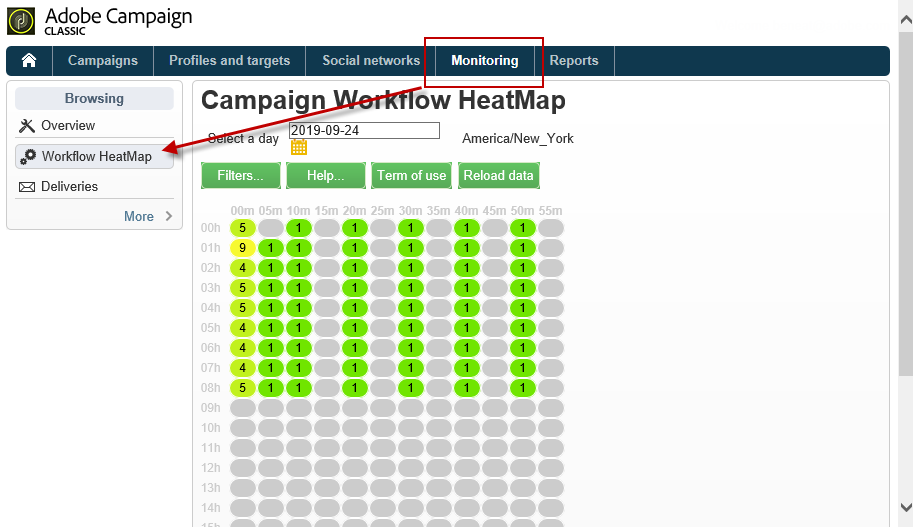
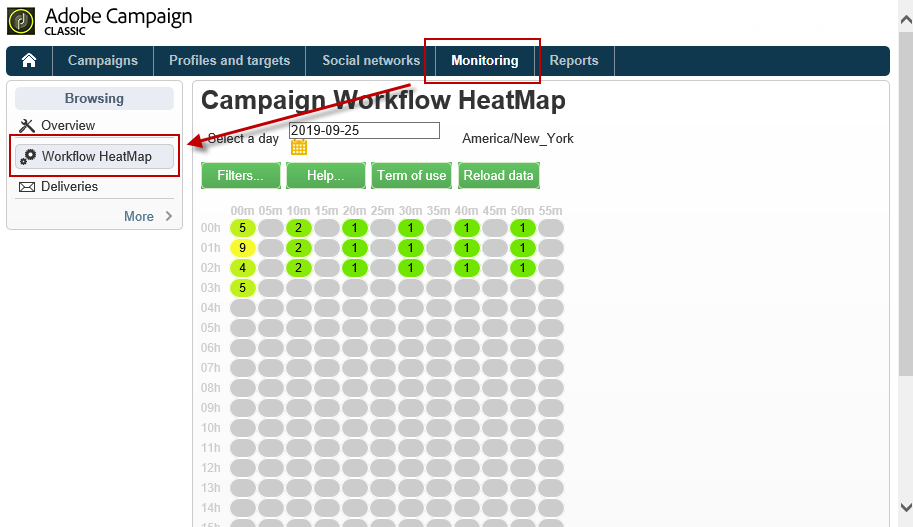
Update monitoring UI

diff --git a/help/workflow/using/heatmap.md b/help/workflow/using/heatmap.md
@@ -64,7 +64,7 @@ This choice is not final, you can always change it by clicking the **[!UICONTROL
 >
 >Only users with administration rights can access the Campaign Workflow HeatMap.
 
-1. Go to **[!UICONTROL Monitoring]** and click the **[!UICONTROL Workflows]** link to display the **[!UICONTROL Campaign Workflow HeatMap]** page.
+1. Go to **[!UICONTROL Monitoring]** and click the **[!UICONTROL Workflow HeatMap** link to display the **[!UICONTROL Campaign Workflow HeatMap]** page.
 
    ![](assets/wkf_monitoring_path.png)
 
